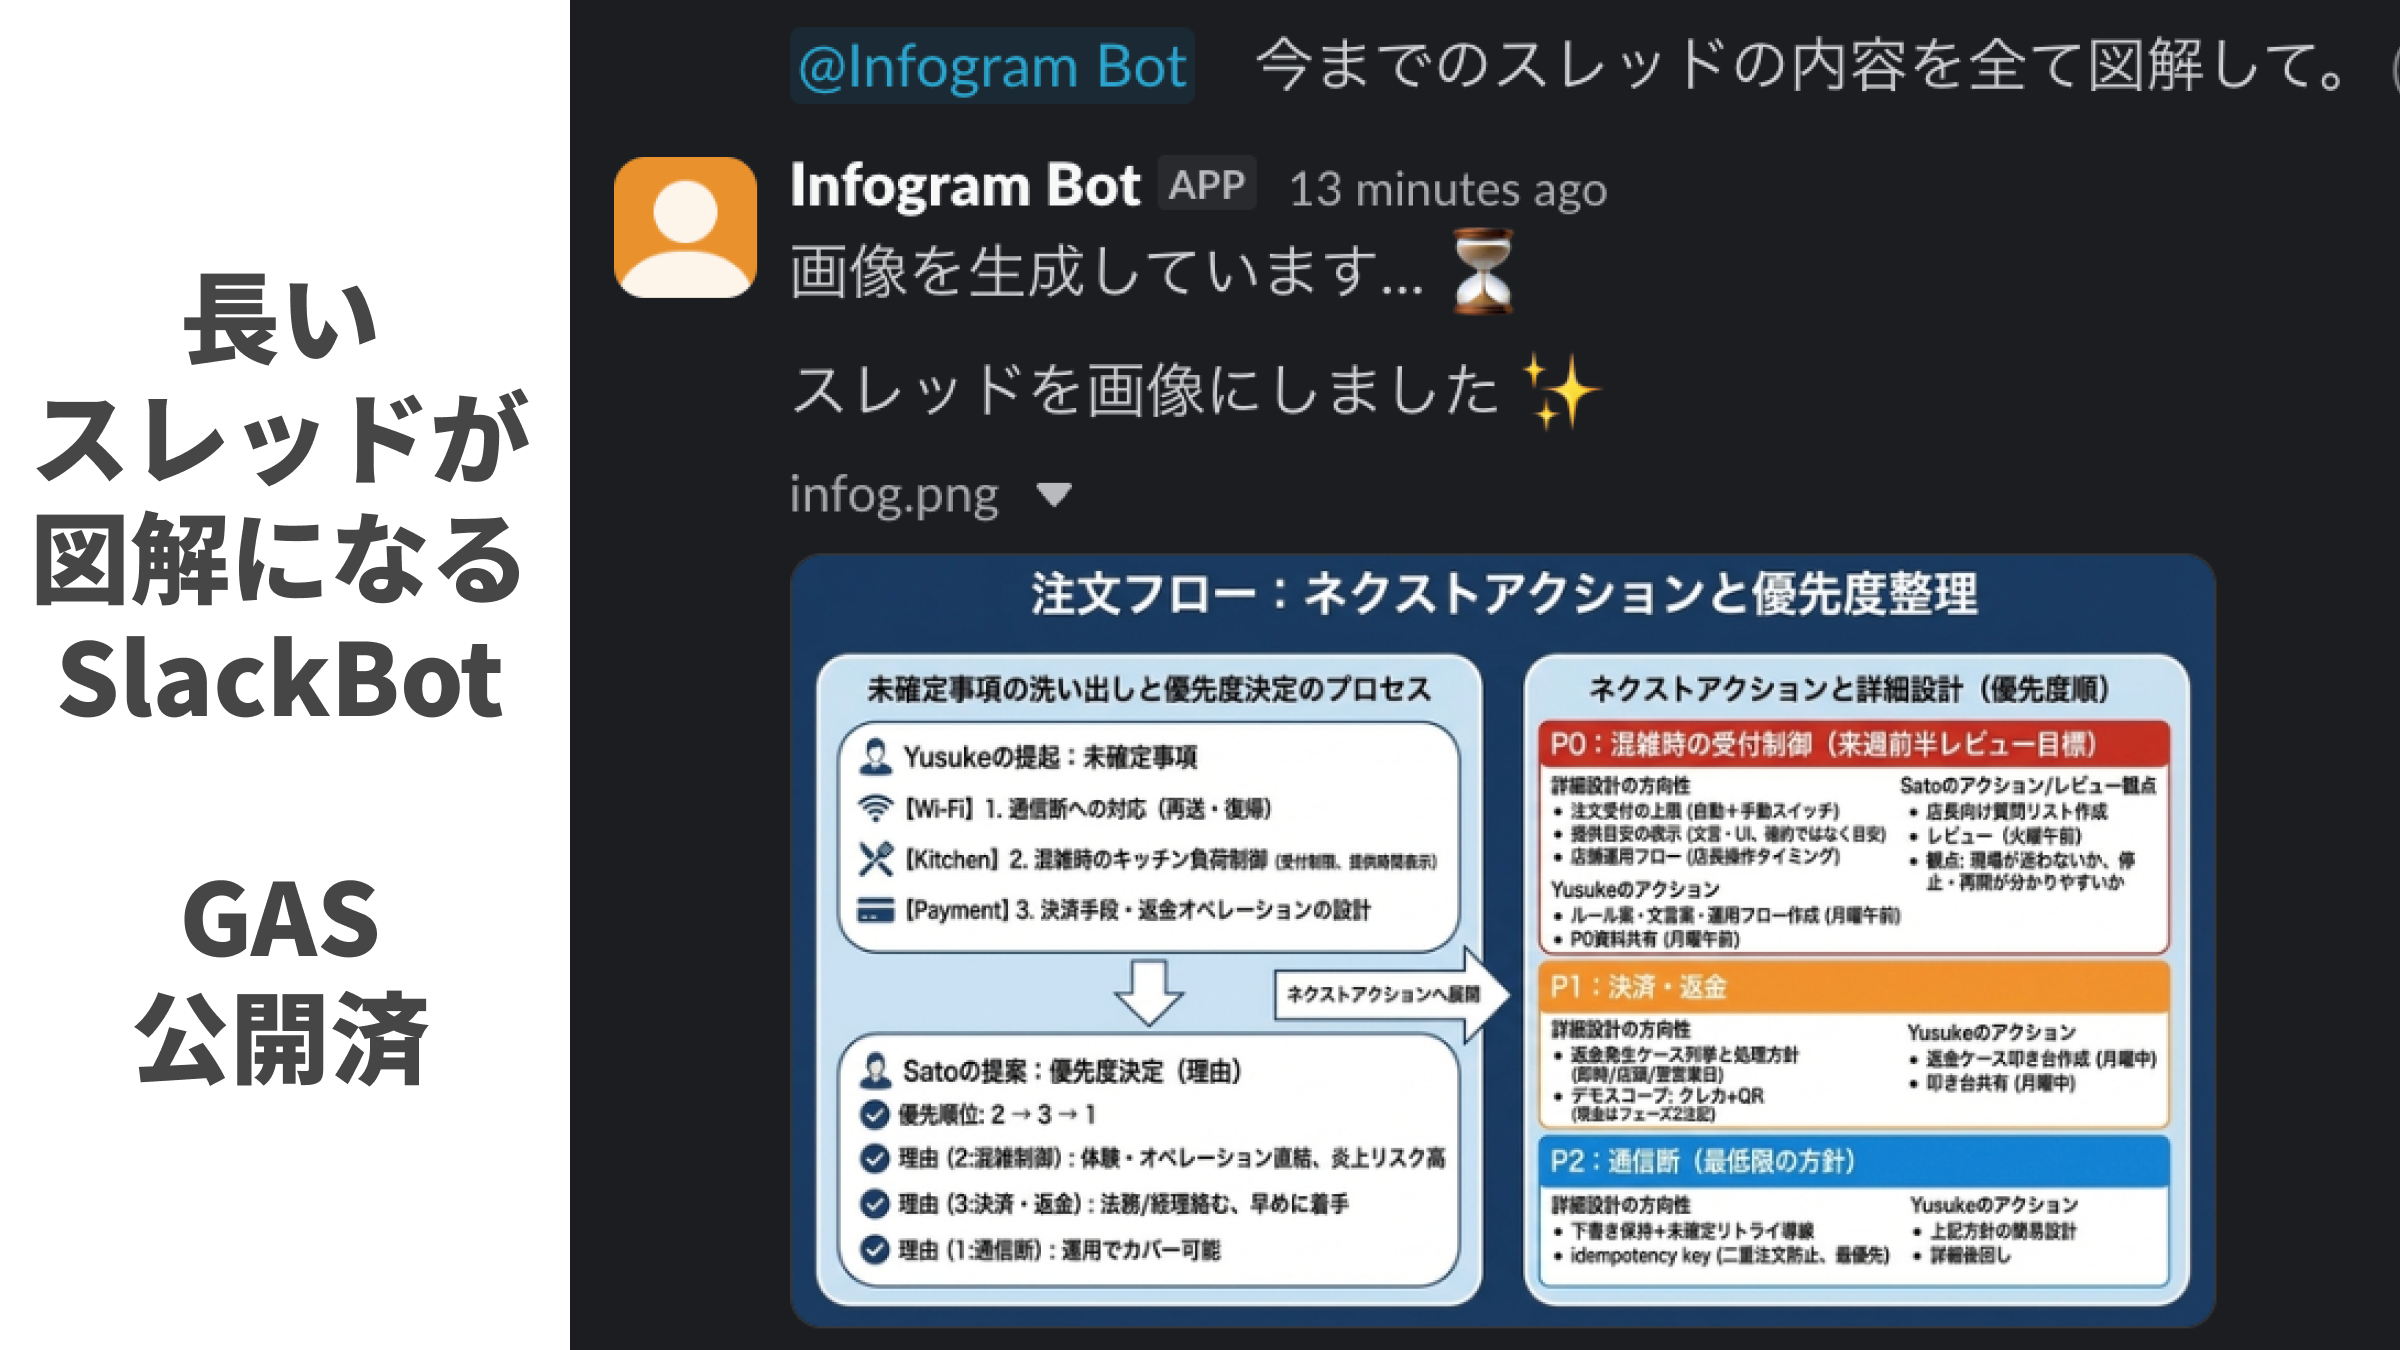
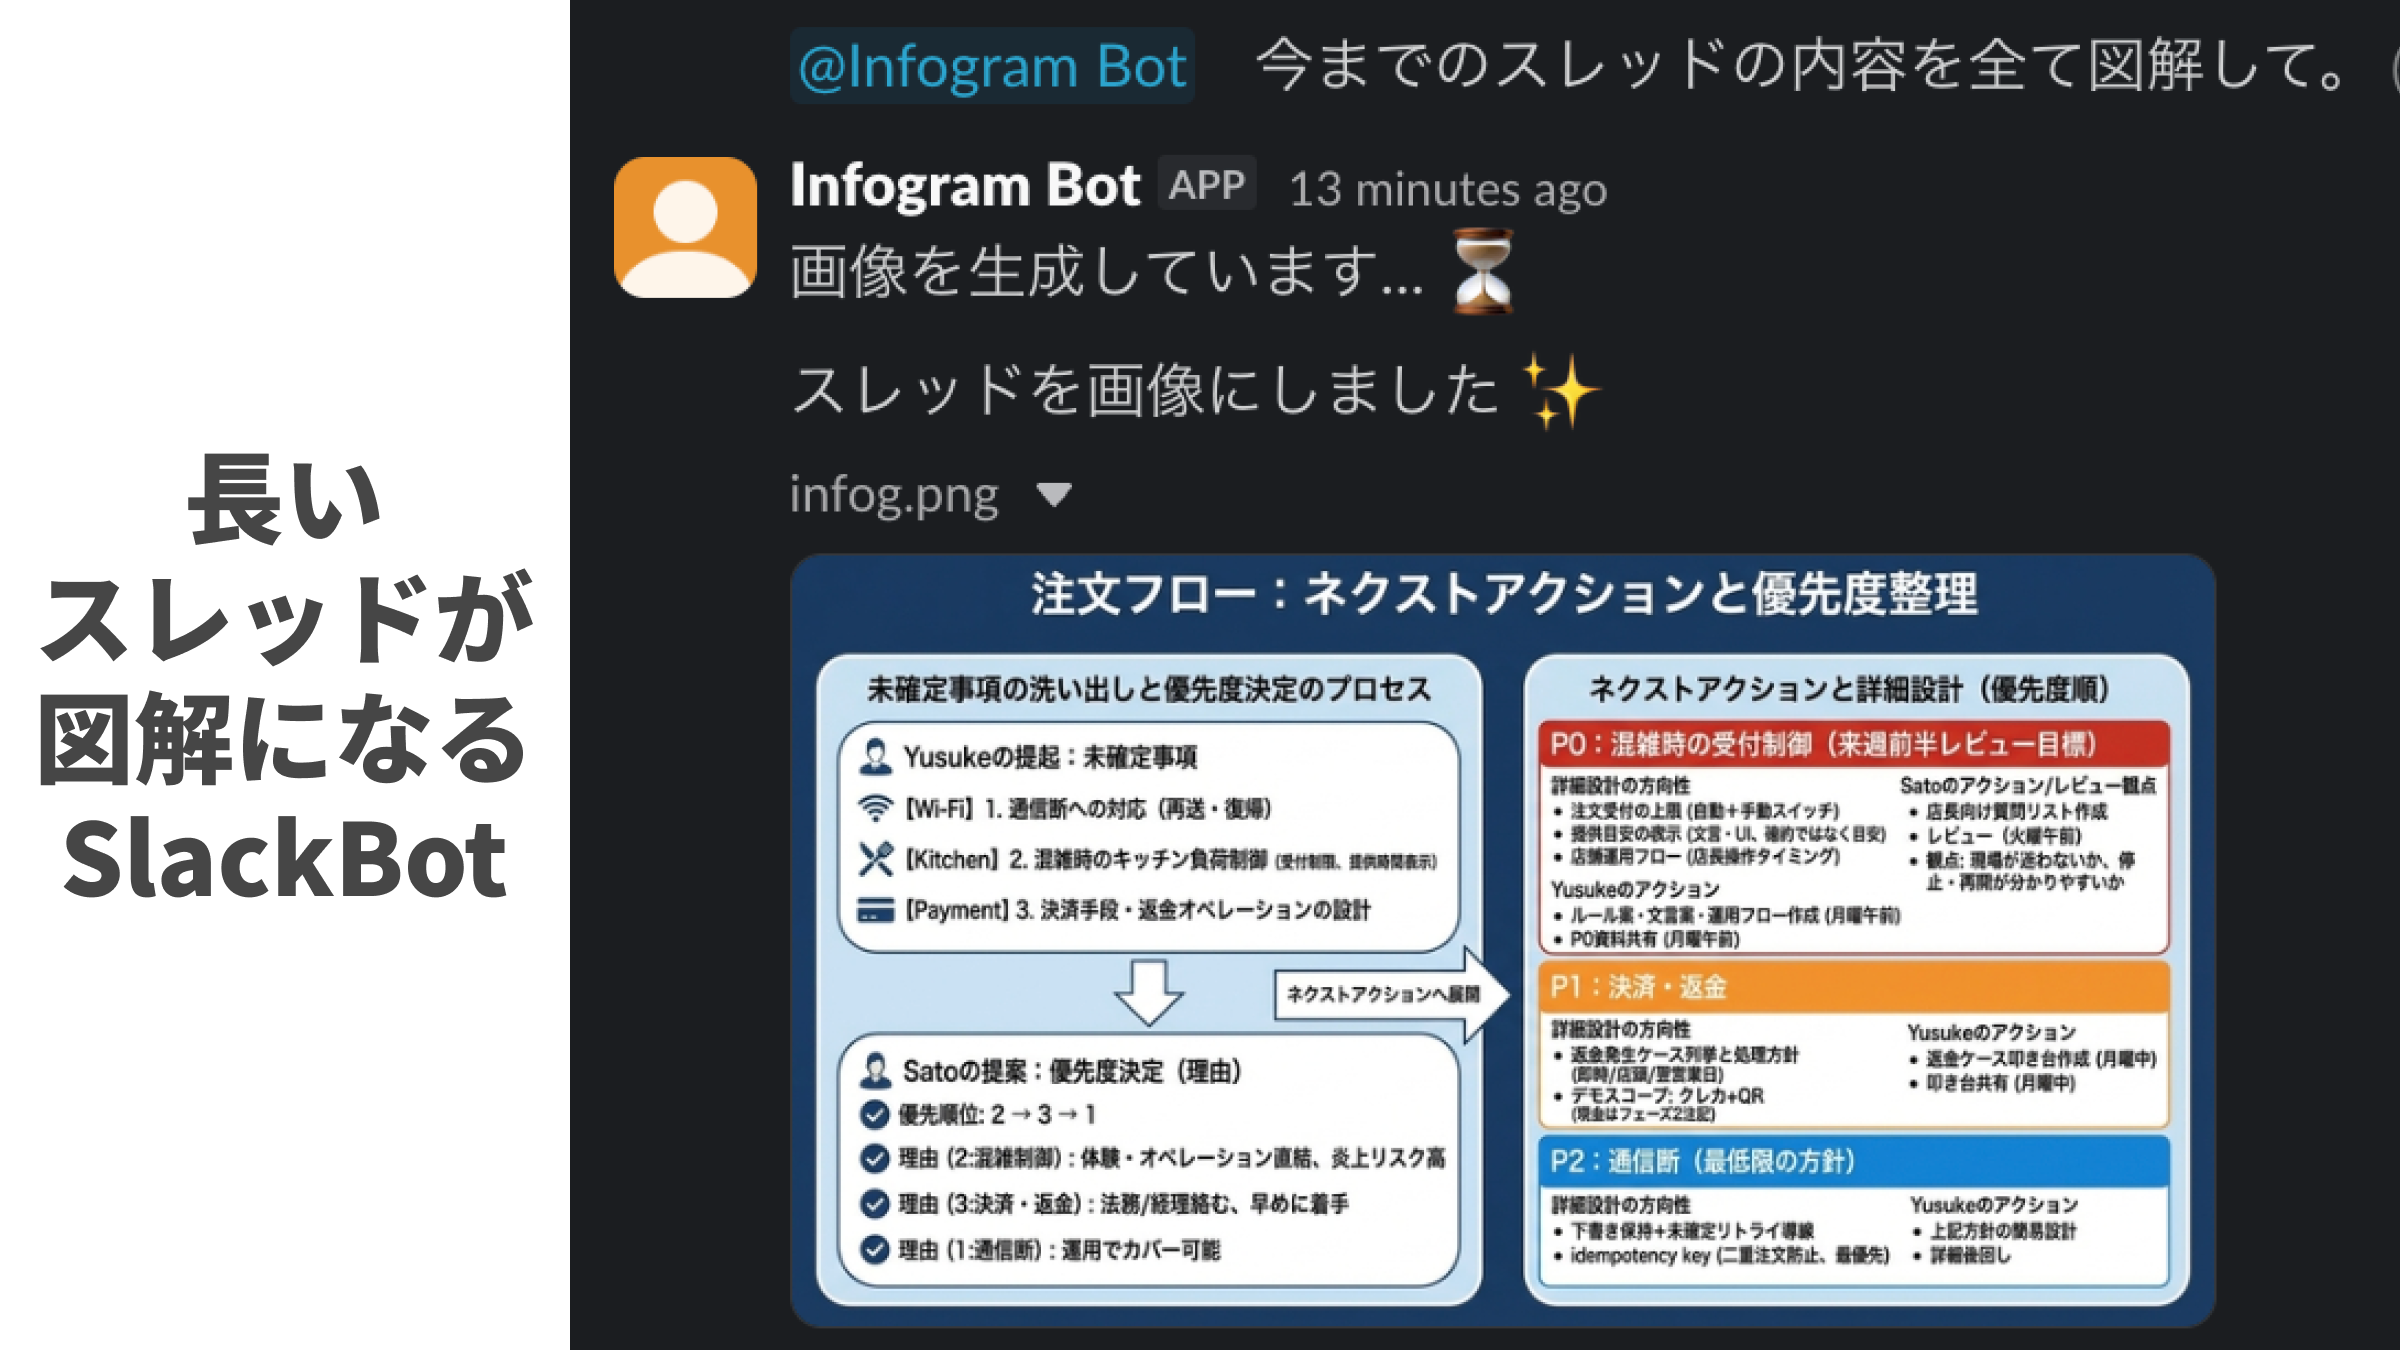
Center demo image in README
🤖 Generated with [Claude Code](https://claude.com/claude-code)

Changed region(s): [[0.0, 0.1867, 0.2188, 0.8089]]

diff --git a/README.md b/README.md
@@ -1,6 +1,8 @@
 # slack-banana
 
-<img alt="slack-banana demo" src="images/image.png" />
+<p align="center">
+  <img alt="slack-banana demo" src="images/image.png" width="600" />
+</p>
 
 Slackのスレッド内容をAIでインフォグラフィック画像に変換するBotです。
 
